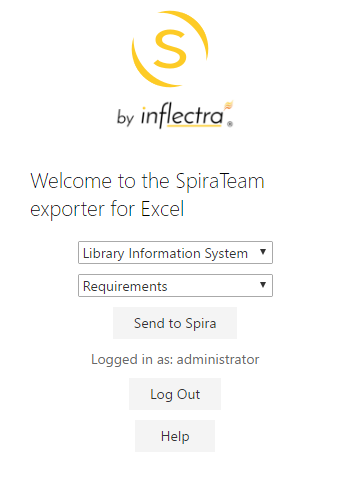
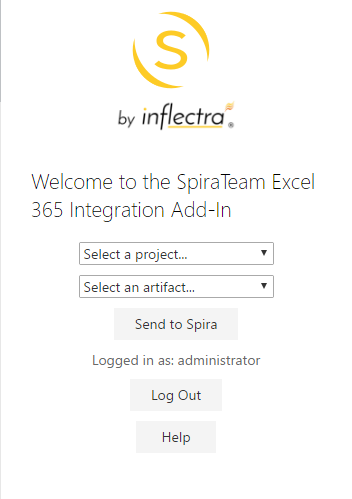
New name, updated screenshots to match

diff --git a/index.html b/index.html
@@ -8,7 +8,7 @@
     <meta charset="UTF-8" />
     <meta http-equiv="X-UA-Compatible" content="IE=Edge" />
     <meta name="viewport" content="width=device-width, height=device-height, initial-scale=1">
-    <title>Spira excel exporter</title>
+    <title>SpiraTeam Excel 365 Integration</title>
 
     <!-- Office JavaScript API -->
     <script type="text/javascript" src="https://appsforoffice.microsoft.com/lib/1.1/hosted/office.debug.js"></script>
@@ -54,7 +54,7 @@
     <div class="main-screen hidden" id="mainScreen">
 
         <p class="ms-font-xl ms-u-textAlignLeft title">
-            Welcome to the SpiraTeam exporter for Excel
+            Welcome to the SpiraTeam Excel 365 Integration Add-In
         </p>
 
         <select class="ms-Dropdown" id="projects" name="Projects" onchange="loadCustomFields($('#artifact').val(), $(this).val())">
